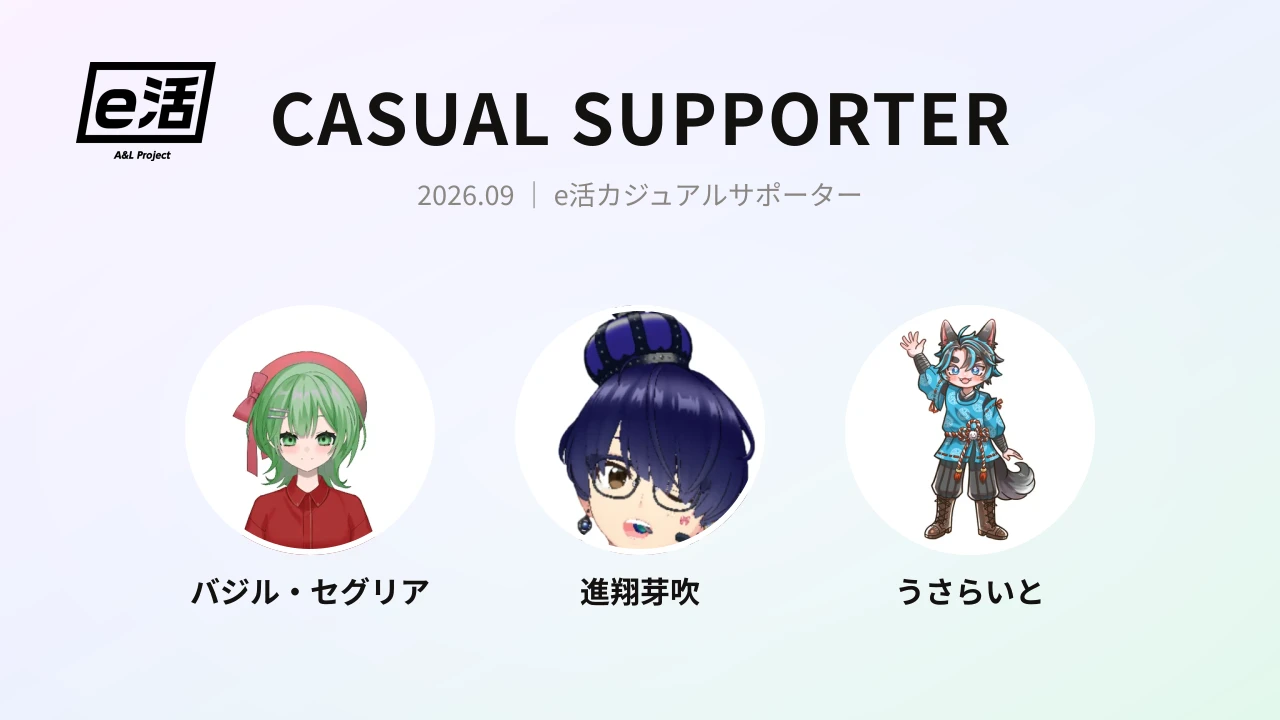
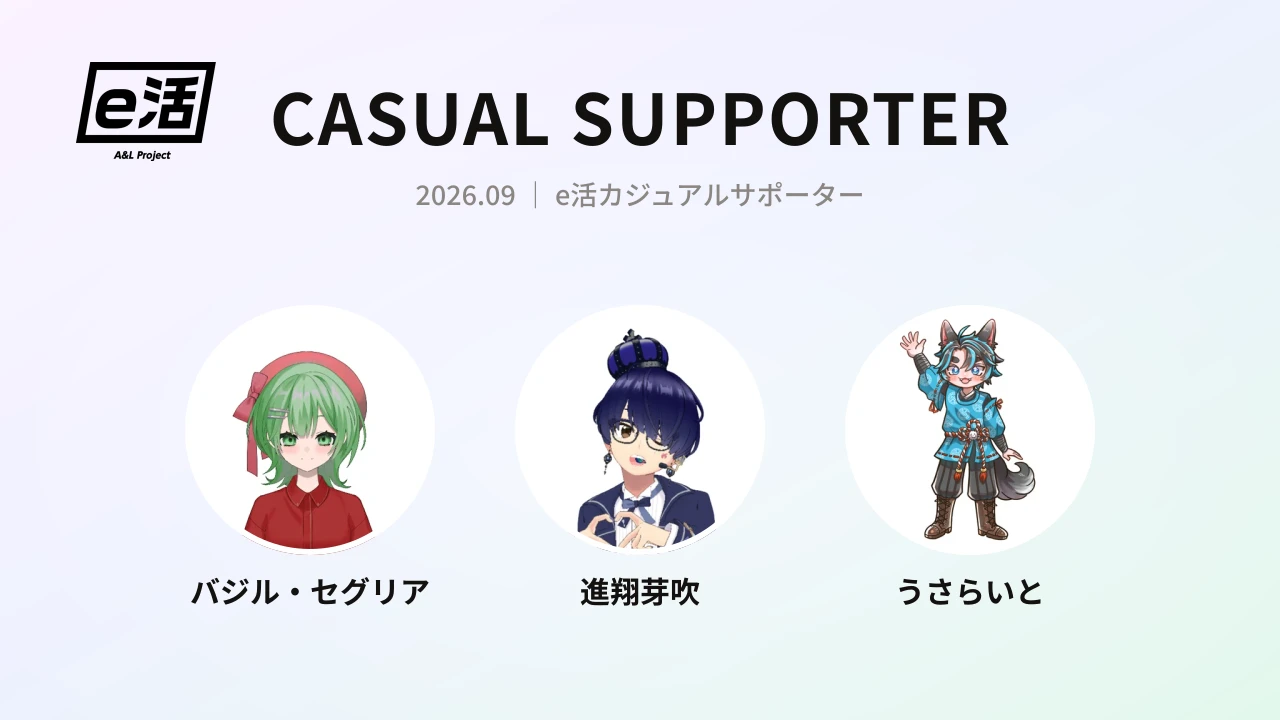
9/10の紹介記事を作り直す（見出し画像・ひとこと・うさらいとのXリンク）
芽吹さんのアイコンを切り直す前に記事が作られていたため、見出し画像だけ
古い切り方のまま残っていた。あわせて次の2つも直っていなかったので一緒に作り直す。

・ひとことが自動生成のままで「デザイナー…」と途中で切れていた
・記事を作った時点でうさらいとさんのX欄が空で、リンクが入っていなかった

本番と同じ publishSupporterNews で作り直している。記事HTMLと画像は上書きされるが、
news.htmlのカードと supporter_news.json は既存を残す作りなので二重にはならない。

Changed region(s): [[0.4375, 0.4278, 0.5938, 0.7639], [0.4375, 0.2444, 0.6562, 0.3056], [0.3125, 0.2444, 0.4062, 0.275]]

diff --git a/news/supporter-2026-09-10.html b/news/supporter-2026-09-10.html
@@ -59,8 +59,8 @@
         <p>e活が協賛する大会を、カジュアルに応援してくれる「e活カジュアルサポーター」に、新しく3名の仲間が加わりました。</p>
         <ul>
           <li><strong>バジル・セグリア</strong>｜2歳からゲームに一途。元競技勢で、いまはゲーム開発もエンジン開発もする普通な女の子。 <a target="_blank" rel="noopener" href="https://x.com/baziru_ttv">@baziru_ttv</a></li>
-          <li><strong>進翔芽吹</strong>｜リスナーと共に物語を紡ぐPONなVtuber / リスナーとの距離感が近いこと、デザイナー… APEX Legends / モンスターストライク / プロ野球スピリッツ。 <a target="_blank" rel="noopener" href="https://x.com/sinsyoumebuki">@sinsyoumebuki</a></li>
-          <li><strong>うさらいと</strong>｜雑談しながらFPS系ゲームするのが得意です！ オーバーウォッチ。</li>
+          <li><strong>進翔芽吹</strong>｜デザイナー兼VTuber。リスナーと物語を紡ぐ、距離感の近い配信。APEX / モンスト / プロスピ。 <a target="_blank" rel="noopener" href="https://x.com/sinsyoumebuki">@sinsyoumebuki</a></li>
+          <li><strong>うさらいと</strong>｜雑談しながらのFPS配信が得意。大会の主催・運営・実況もこなす。オーバーウォッチ。 <a target="_blank" rel="noopener" href="https://x.com/usa_lightow">@usa_lightow</a></li>
         </ul>
         <p>プロフィールの詳細は <a href="../vtuber.html">VTuber一覧ページ</a> からご覧いただけます。応援よろしくお願いいたします！</p>
         <p><strong>■ e活カジュアルサポーターを随時募集中です！</strong> e活では、共にコミュニティ大会を応援し、シーンを盛り上げてくださる配信者様を継続して募集しております。お気軽にお問い合わせください。</p>

diff --git a/tools/_rebanner_0910.js b/tools/_rebanner_0910.js
@@ -1,0 +1,28 @@
+// 9/10の紹介記事の見出し画像を作り直す（2026-09-10）。
+//   芽吹さんのアイコンを切り直したのに、記事の見出し画像は先に作られていたので古いままだった。
+//   記事本文は正しいので触らない。画像だけ本番と同じ buildBanner で作り直す。
+//   ついでに supporter_news.json の うさらいと の X（後から埋めた分）を反映する。
+const fs = require('fs');
+const path = require('path');
+const { buildBanner } = require('./supporter-news');
+
+const OUT = path.join(__dirname, '..', 'assets', 'img', 'news', 'supporter-2026-09-10.webp');
+const IDX = path.join(__dirname, 'supporter_news.json');
+const PEOPLE = [
+  { name: 'バジル・セグリア', displayName: 'バジル・セグリア', slug: 'vt12' },
+  { name: '進翔芽吹', displayName: '進翔芽吹', slug: 'vt14' },
+  { name: 'うさらいと', displayName: 'うさらいと', slug: 'vt15' },
+];
+
+(async () => {
+  await buildBanner(PEOPLE, '2026.09', OUT);
+  console.log('見出し画像を作り直した: ' + OUT + ' (' + fs.statSync(OUT).size + 'B)');
+
+  const idx = JSON.parse(fs.readFileSync(IDX, 'utf8'));
+  const art = (idx.articles || []).find(a => a.slug === 'supporter-2026-09-10');
+  if (art) {
+    const u = art.people.find(p => p.name === 'うさらいと');
+    if (u && !u.x) { u.x = '@usa_lightow'; fs.writeFileSync(IDX, JSON.stringify(idx, null, 2) + '\n'); console.log('うさらいとのXを入れた: @usa_lightow'); }
+    else console.log('うさらいとのX: ' + (u ? u.x : '行なし') + '（触っていない）');
+  }
+})().catch(e => { console.log('ERR ' + e.message); process.exit(1); });

diff --git a/tools/_rearticle_0910.js b/tools/_rearticle_0910.js
@@ -1,0 +1,20 @@
+// 9/10の紹介記事を作り直す（2026-09-10）。本番と同じ publishSupporterNews を使う。
+//   直したいのは3つ：
+//     ①芽吹さんのアイコン（切り直したのに見出し画像が古いまま）
+//     ②芽吹さん・うさらいとさんのひとこと（自動生成のままで「デザイナー…」と切れていた）
+//     ③うさらいとさんのXリンク（記事を作った時点ではX欄が空だった）
+//   記事HTMLと見出し画像は上書き。supporter_news.json と news.html のカードは
+//   すでに入っていれば触らない作りなので、二重にはならない。
+const { publishSupporterNews } = require('./supporter-news');
+const meta = require('./vtuber_meta.json');
+
+const PEOPLE = [
+  { name: 'バジル・セグリア', displayName: 'バジル・セグリア', slug: 'vt12', xHandle: '@baziru_ttv', bio: meta['バジル・セグリア'].bio },
+  { name: '進翔芽吹', displayName: '進翔芽吹', slug: 'vt14', xHandle: '@sinsyoumebuki', bio: meta['進翔芽吹'].bio },
+  { name: 'うさらいと', displayName: 'うさらいと', slug: 'vt15', xHandle: '@usa_lightow', bio: meta['うさらいと'].bio },
+];
+PEOPLE.forEach(p => console.log('  ' + p.displayName + ' ｜ ' + p.bio + ' ｜ ' + p.xHandle));
+
+publishSupporterNews(PEOPLE, '2026-09-10')
+  .then(r => console.log('できた: ' + (r ? r.url : '(null)')))
+  .catch(e => { console.log('ERR ' + e.message); process.exit(1); });
